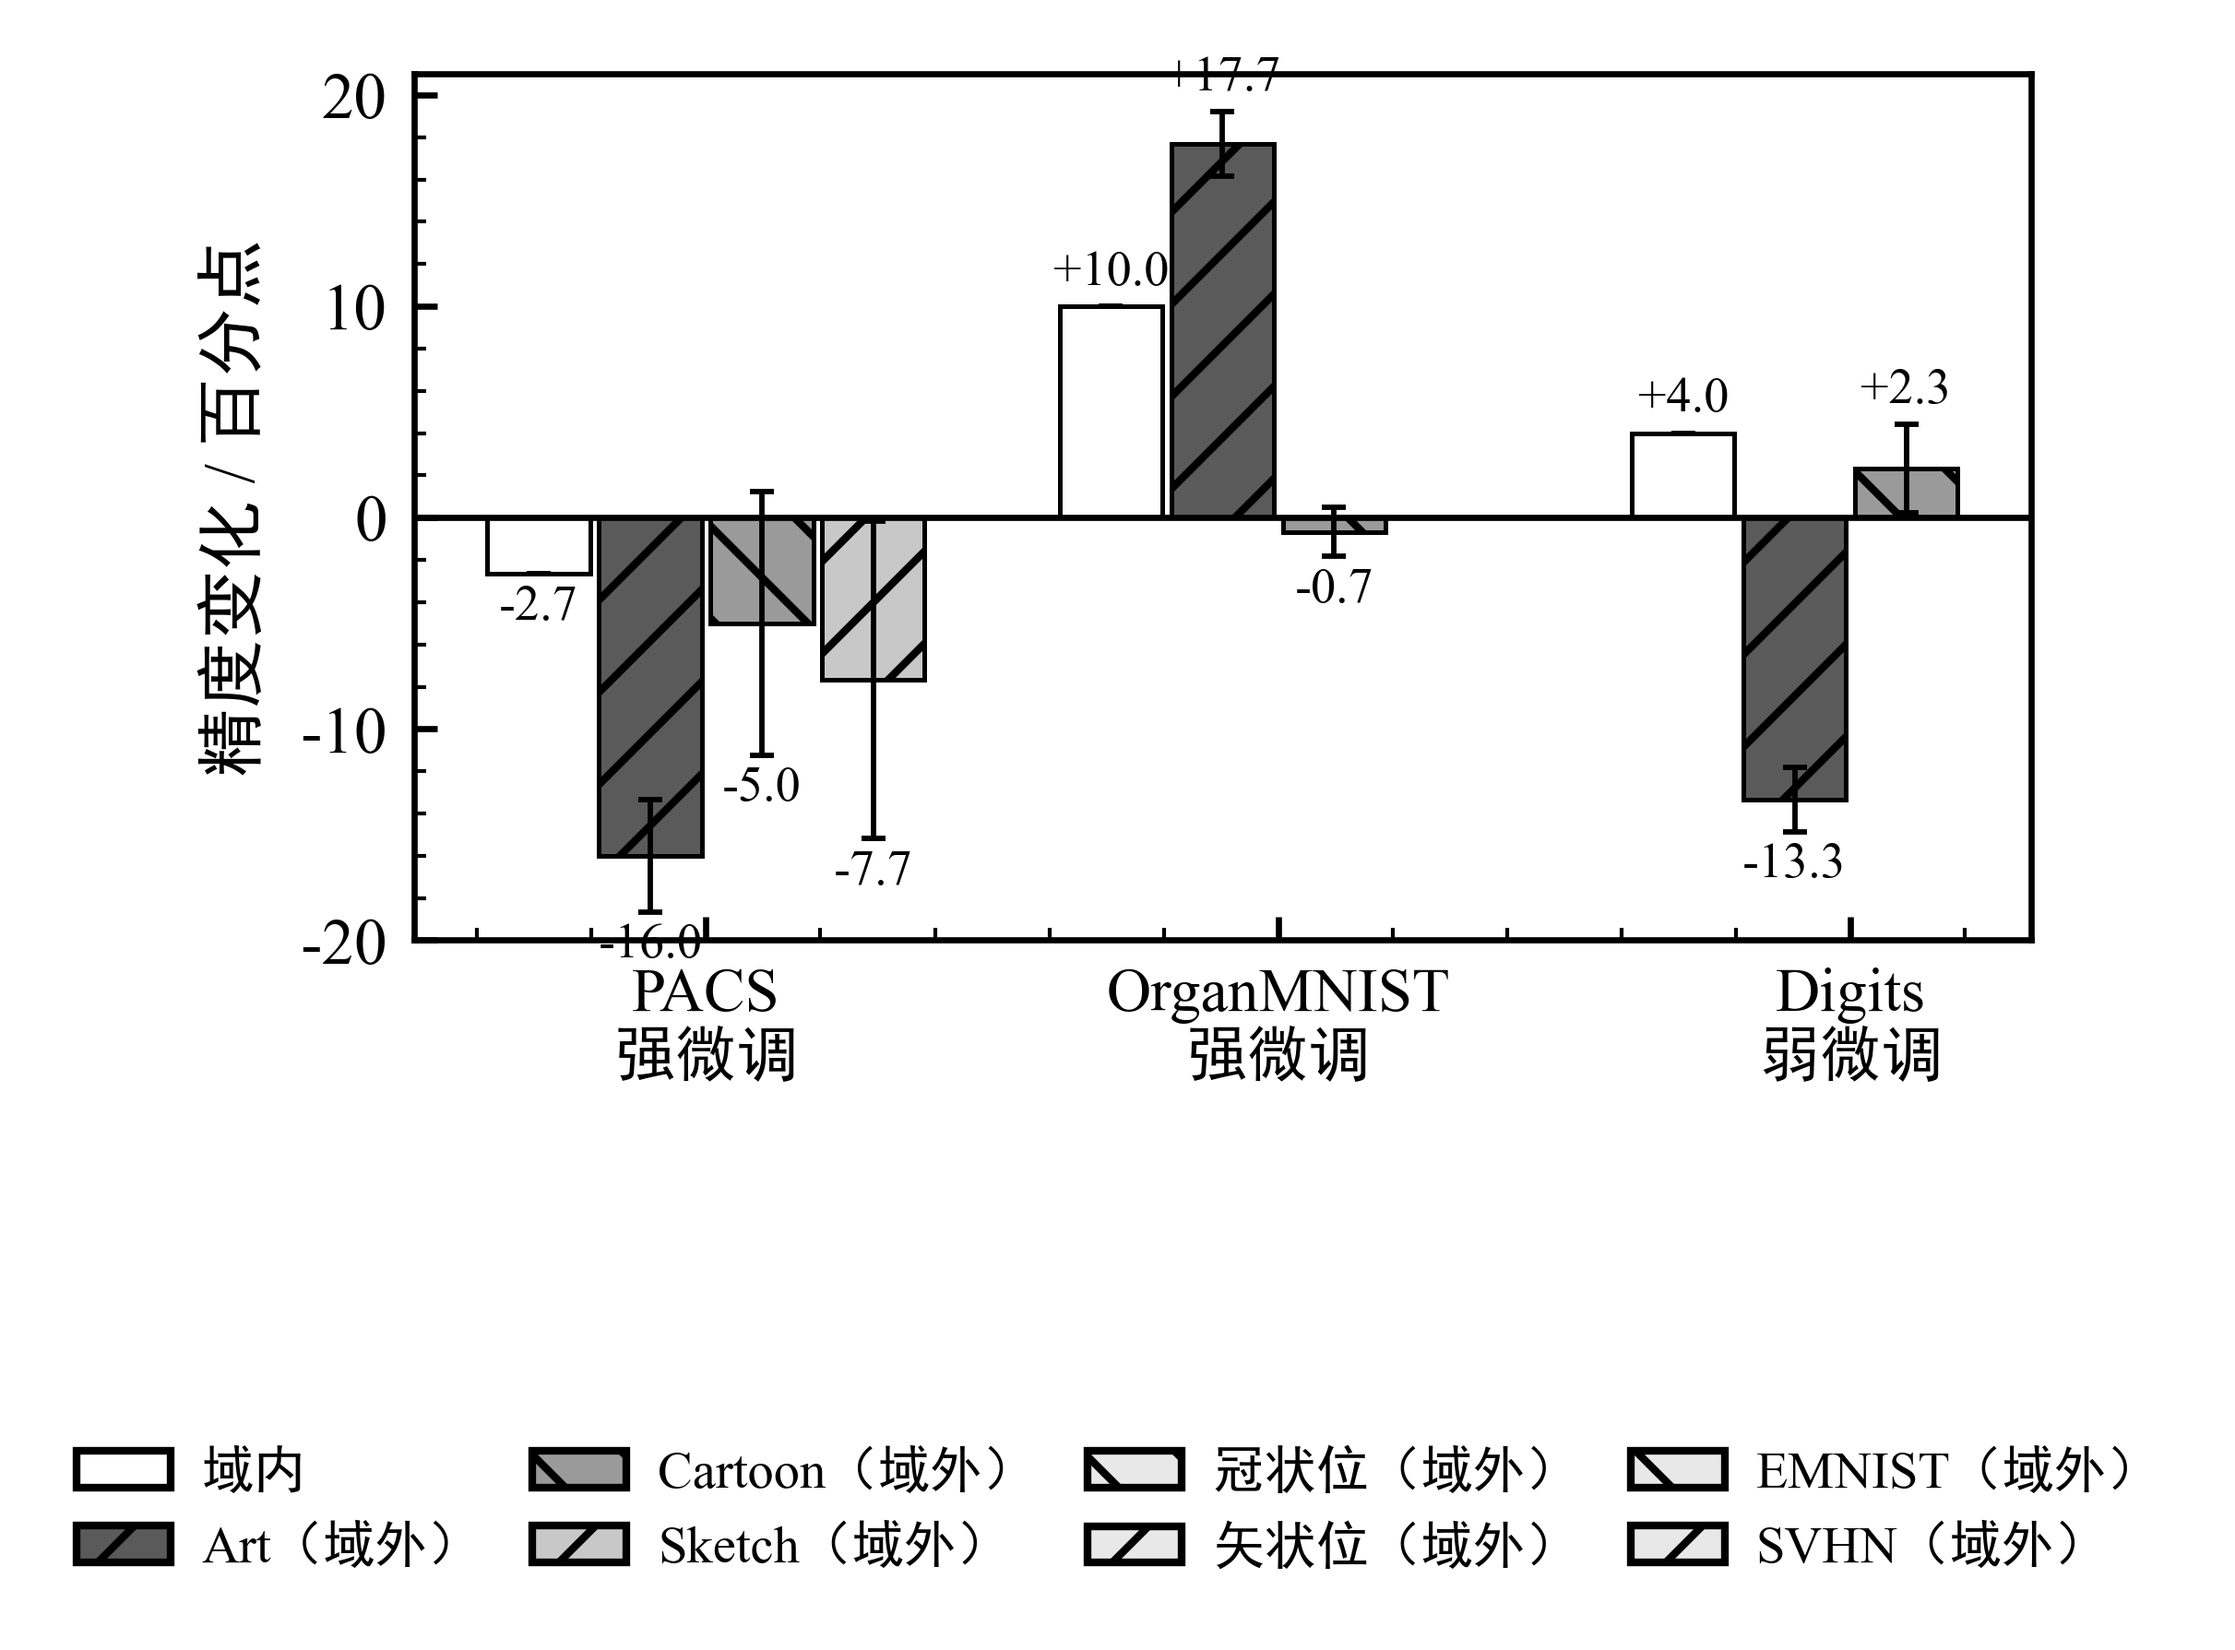
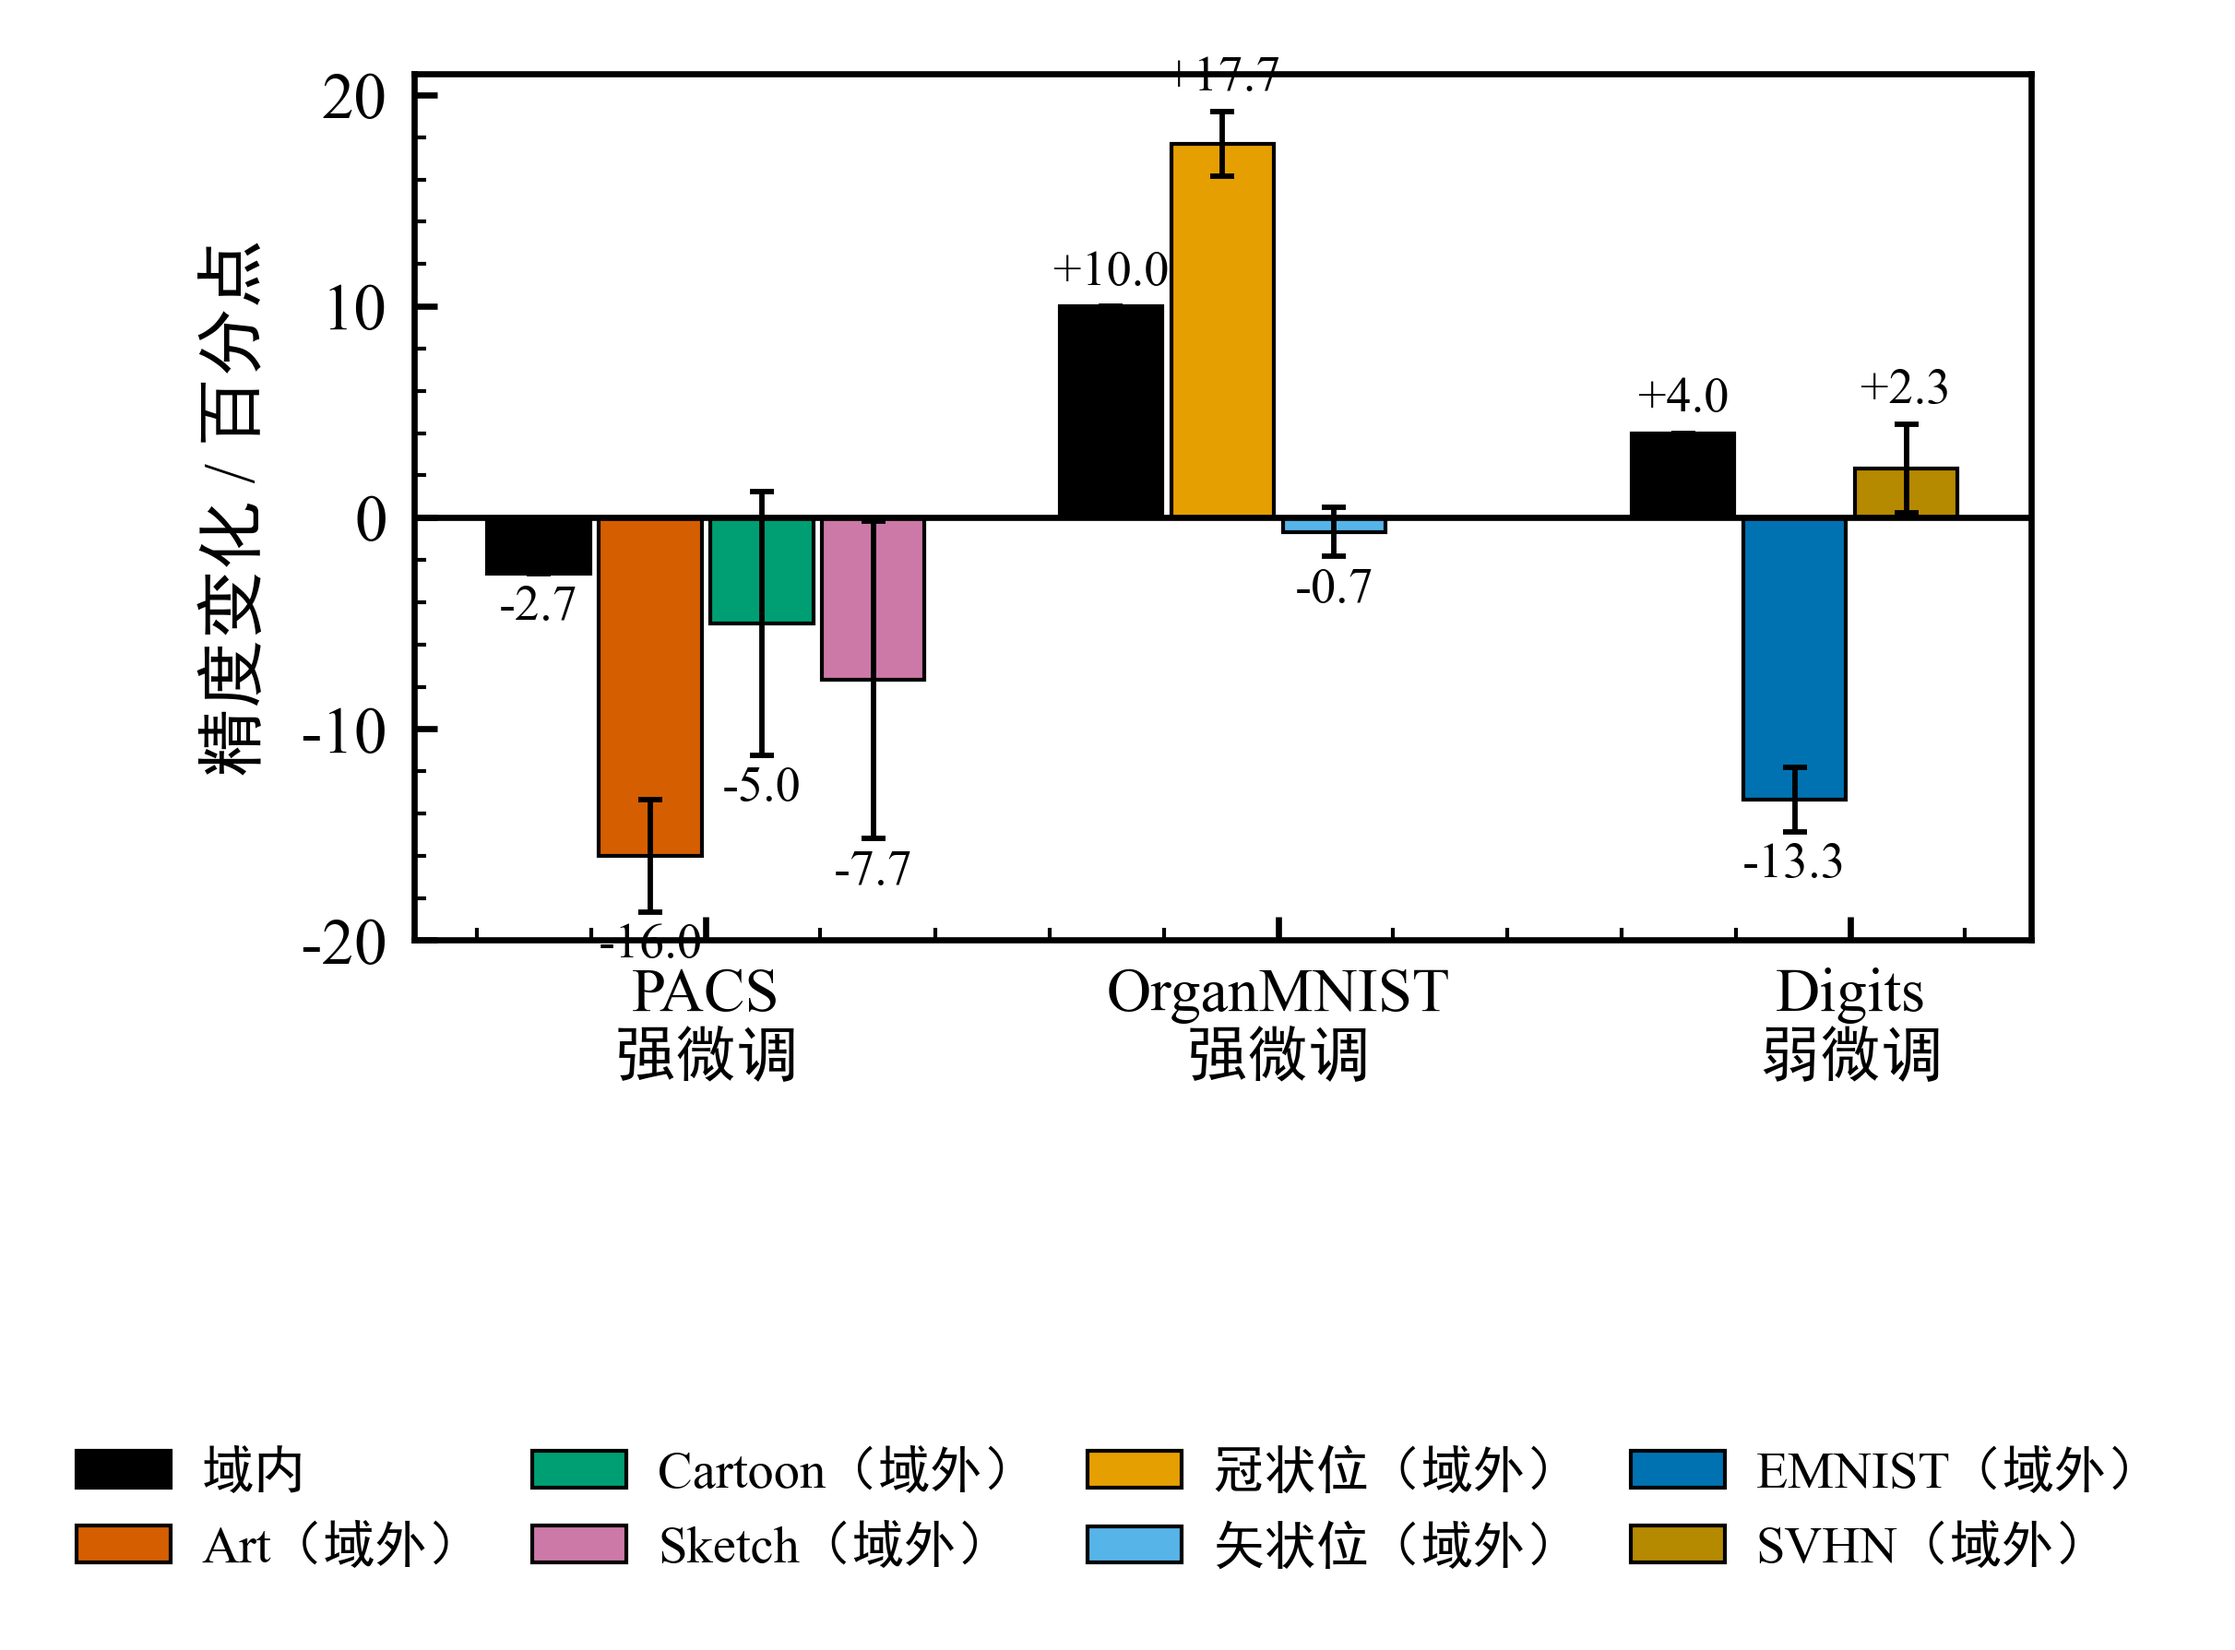
Make all figures color (Okabe-Ito palette); domains in figs 2-3, cases in fig 4

diff --git a/scripts/plot_figures.py b/scripts/plot_figures.py
@@ -11,8 +11,9 @@
 制图规范（中文核心/SCI 常见约定）：
   * 拉丁字母与数字用 Times New Roman，中文回退黑体（font.family 列表式回退）
   * 坐标轴四边闭合、刻度朝内、开启次刻度；不使用网格线
-  * 误差棒为 ±1 标准差；域身份用颜色/灰度 + 标记形状双重编码，微调强度用线型
-    （图 2 为彩色，采用色盲友好的 Okabe-Ito 配色；图 1/3/4 为灰度，黑白打印可辨）
+  * 误差棒为 ±1 标准差；全部图均用彩色（色盲友好的 Okabe-Ito 配色）
+    ——图 2/图 3 的颜色表示"域"（域内统一黑色作参照），图 4 的颜色表示"案例"，
+    图 1 为红-蓝发散色标；同时保留线型与标记形状编码，黑白打印亦可辨
   * 子图用 (a)(b)(c) 标注；图宽按单栏（约 8.9 cm）/双栏（约 17.5 cm）设置
   * 同时导出 600 dpi 位图（PNG/TIF）与矢量图（PDF），便于期刊取用
 """
@@ -49,6 +50,8 @@ DOM_COLOR = {"art_painting": "#D55E00", "cartoon": "#009E73", "sketch": "#CC79A7
              "svhn": "#B58900"}
 DOM_MARK = {"art_painting": "s", "cartoon": "^", "sketch": "v",
             "coronal": "D", "sagittal": "P", "emnist": "X", "svhn": "*"}
+# 案例配色（图 4 用）：散点的颜色表示案例，与图 2/3 的"域配色"分属不同维度，各自图例已说明
+CASE_COLOR = {"pacs": "#D55E00", "organ": "#009E73", "digits": "#0072B2"}
 # 目标域统一排序（保证各图列序一致）
 DOM_ORDER = ["art_painting", "cartoon", "sketch", "coronal", "sagittal", "emnist", "svhn"]
 
@@ -218,7 +221,7 @@ def fig2_dose(A):
 
 # --------------------------------------------------------------------------- #
 def fig3_summary(A):
-    """域内/域外精度变化对比：分组条形 + 误差棒（误差棒来自逐种子标准差）。"""
+    """域内/域外精度变化对比：彩色分组条形 + 误差棒（误差棒来自逐种子标准差）。"""
     strongest = A["strongest"]
     order = ["pacs|_strong", "organ|_strong", "digits|base"]
     keys = [k for k in order if k in strongest]
@@ -229,7 +232,7 @@ def fig3_summary(A):
     for k in keys:
         v = strongest[k]
         case, tag, ep = v["case"], v["tag"], v["epoch"]
-        bars = [("域内", v["in_d_acc_pp"])]
+        bars = [("域内", v["in_d_acc_pp"], None)]
         errs = [0.0]
         rows = A["per_case"][case][tag]
         for raw in DOM_ORDER:
@@ -238,7 +241,7 @@ def fig3_summary(A):
                     sd = 0.0
                     if dom in rows and ep in rows[dom]["epochs"]:
                         sd = rows[dom]["d_acc_pp_std"][rows[dom]["epochs"].index(ep)]
-                    bars.append((DOM_SHORT.get(raw, raw), val))
+                    bars.append((DOM_SHORT.get(raw, raw), val, raw))
                     errs.append(sd)
         series.append(bars)
         errs_series.append(errs)
@@ -248,43 +251,43 @@ def fig3_summary(A):
     total_w = 0.78
     w = total_w / ncol
     fig, ax = plt.subplots(figsize=(3.6, 2.9))
-    ymax = max(v for s in series for _, v in s)
-    ymin = min(v for s in series for _, v in s)
+    ymax = max(v for s_ in series for _, v, _ in s_)
+    ymin = min(v for s_ in series for _, v, _ in s_)
     ax.set_ylim(min(-20, ymin - 4), max(21, ymax + 3))
     for j in range(ncol):
-        vals, errs, colors, hatches = [], [], [], []
-        for s, es in zip(series, errs_series):
-            if j < len(s):
-                vals.append(s[j][1]); errs.append(es[j])
-                colors.append("white" if j == 0 else GRAYS[min(j, len(GRAYS) - 1)])
-                hatches.append("" if j == 0 else ("//" if j % 2 else "\\\\"))
+        vals, errs, colors = [], [], []
+        for s_, es in zip(series, errs_series):
+            if j < len(s_):
+                nm, val, raw = s_[j]
+                vals.append(val); errs.append(es[j])
+                colors.append(COLOR_IN if raw is None else DOM_COLOR.get(raw, GRAYS[1]))
             else:
-                vals.append(np.nan); errs.append(0.0); colors.append("white"); hatches.append("")
+                vals.append(np.nan); errs.append(0.0); colors.append("white")
         ax.bar(x + (j - (ncol - 1) / 2) * w, vals, w * 0.92, yerr=errs,
-               color=colors, edgecolor="black", linewidth=0.6, hatch=hatches,
+               color=colors, edgecolor="black", linewidth=0.5,
                error_kw=dict(elinewidth=0.7, capsize=1.6, capthick=0.7, ecolor="black"))
     for j in range(ncol):
-        for i, s in enumerate(series):
-            if j < len(s):
-                val = s[j][1]
+        for i, s_ in enumerate(series):
+            if j < len(s_):
+                val = s_[j][1]
                 err = errs_series[i][j] if j < len(errs_series[i]) else 0.0
                 off = (err + 0.5) if val >= 0 else -(err + 0.5)
-                ax.text(x[i] + (j - (ncol - 1) / 2) * w, val + off,
-                        "{:+.1f}".format(val), ha="center",
-                        va="bottom" if val >= 0 else "top", fontsize=6.5)
+                ax.text(x[i] + (j - (ncol - 1) / 2) * w, val + off, "{:+.1f}".format(val),
+                        ha="center", va="bottom" if val >= 0 else "top", fontsize=6.5)
     ax.axhline(0, color="black", lw=0.8)
     ax.set_xticks(x)
     ax.set_xticklabels(labels, fontsize=8)
     ax.set_ylabel("精度变化 / 百分点", fontsize=9)
-    dom_names = []
-    for s in series:
-        for nm, _ in s[1:]:
-            if nm not in dom_names:
-                dom_names.append(nm)
-    handles = [Patch(facecolor="white", edgecolor="black", label="域内")]
-    for j, nm in enumerate(dom_names, start=1):
-        handles.append(Patch(facecolor=GRAYS[min(j, len(GRAYS) - 1)], edgecolor="black",
-                             hatch="//" if j % 2 else "\\\\", label=nm + "（域外）"))
+    handles, seen = [], set()
+    for s_ in series:
+        for nm, _, raw in s_:
+            key = raw if raw is not None else "__in__"
+            if key in seen:
+                continue
+            seen.add(key)
+            handles.append(Patch(facecolor=COLOR_IN if raw is None else DOM_COLOR.get(raw, GRAYS[1]),
+                                 edgecolor="black", linewidth=0.5,
+                                 label=nm if raw is None else (nm + "（域外）")))
     fig.legend(handles=handles, fontsize=6.8, ncol=4, loc="lower center",
                frameon=False, bbox_to_anchor=(0.5, -0.02))
     fig.tight_layout(rect=(0, 0.26, 1, 1))
@@ -309,12 +312,13 @@ def fig4_gap(A):
                         xs.append(dmmd); ys.append(dacc)
         xs, ys = np.array(xs), np.array(ys)
         xs_all += list(xs); ys_all += list(ys)
-        ax.scatter(xs, ys, s=13, marker=MARKERS[i], facecolors=GRAYS[i],
+        col = CASE_COLOR.get(c, GRAYS[i])
+        ax.scatter(xs, ys, s=13, marker=MARKERS[i], facecolors=col,
                    edgecolors="black", linewidths=0.4, label=CASE_ZH.get(c, c))
         if len(xs) > 2:
             sl, ic = np.polyfit(xs, ys, 1)
             xr = np.linspace(xs.min(), xs.max(), 30)
-            ax.plot(xr, ic + sl * xr, color=GRAYS[i], lw=1.0, ls="-")
+            ax.plot(xr, ic + sl * xr, color=col, lw=1.2, ls="-")
     xs_all, ys_all = np.array(xs_all), np.array(ys_all)
     sl, ic = np.polyfit(xs_all, ys_all, 1)
     xr = np.linspace(xs_all.min(), xs_all.max(), 50)
@@ -323,7 +327,7 @@ def fig4_gap(A):
     ax.axvline(0, color="#888888", lw=0.6)
     ax.set_xlabel("特征距离变化（MMD）", fontsize=9)
     ax.set_ylabel("域外精度变化 / 百分点", fontsize=9)
-    ax.legend(fontsize=7.5, loc="lower left", frameon=False)
+    ax.legend(fontsize=7.5, loc="lower right", frameon=False)
     ax.text(0.98, 0.97, "r = {:.2f}, P < 0.001, n = {}\n（案例内 |r| 最大 {:.2f}）".format(
         gv["pearson_r"], gv["n"],
         max(abs(v["pearson_r"]) for v in gv["per_case"].values()

diff --git a/scripts/analyze.py b/scripts/analyze.py
@@ -9,7 +9,7 @@
   figures/fig3_summary.png      域内/域外精度变化对比（分组条形）
   figures/fig4_gap.png          域外精度变化 vs 特征距离变化（散点 + 拟合）
 
-制图规范集中在 plot_figures.py（中文标注、误差棒、坐标轴闭合、600 dpi + 矢量图；图 2 为彩色，其余为灰度）。
+制图规范集中在 plot_figures.py（中文标注、彩色配色、误差棒、坐标轴闭合、600 dpi + 矢量图）。
 """
 from __future__ import annotations
 

diff --git a/README.md b/README.md
@@ -99,7 +99,7 @@ python scripts\analyze.py
 | 字体 | 拉丁字母与数字用 Times New Roman，中文自动回退黑体（`font.family` 列表式逐字回退） |
 | 坐标轴 | 四边闭合、刻度朝内、开启次刻度；不使用网格线 |
 | 误差 | 误差棒为 ±1 标准差（3 个随机种子）；不叠加阴影带 |
-| 配色 | **图 2 用色盲友好的彩色编码**（Okabe-Ito 配色；域内统一用黑色作参照，每个目标域一种颜色 + 一种标记，同一图内不重复）；图 1/3/4 用灰度 + 斜线填充，黑白打印可辨 |
+| 配色 | **全部图均为彩色**，采用色盲友好的 Okabe-Ito 配色：图 2/图 3 的颜色表示“域”（域内统一黑色作参照，每个目标域一种颜色 + 一种标记）；图 4 的颜色表示“案例”；图 1 为红-蓝发散色标（每格标注数值） |
 | 线型 | 实线＝强微调、虚线＝弱微调；域身份同时由颜色/灰度与标记形状编码 |
 | 子图 | 用 (a)(b)(c) 统一编号；同一图内共享一个图例 |
 | 尺寸 | 单栏图约 8.9 cm、双栏图约 17.5 cm，字号按最终印刷尺寸设定（缩放后仍 ≥7 pt） |
